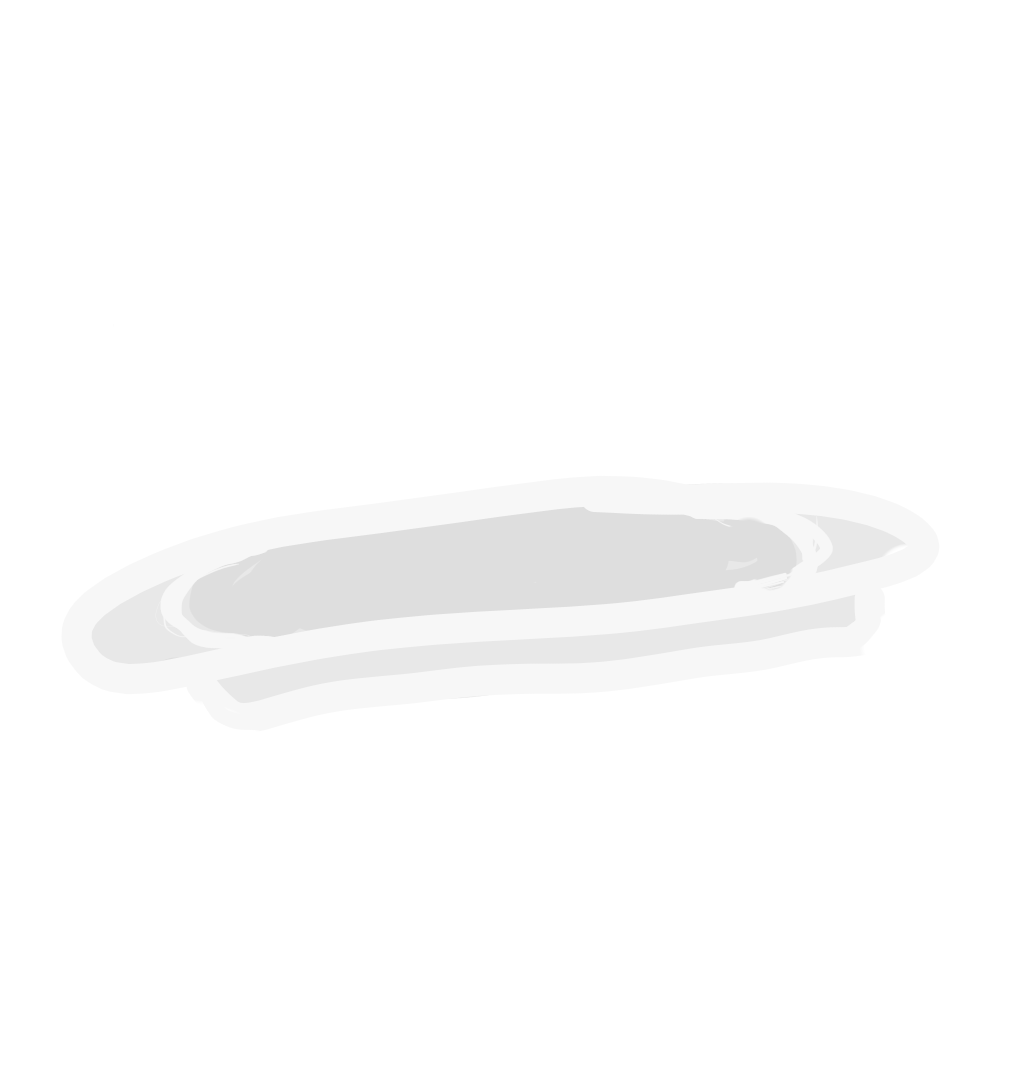
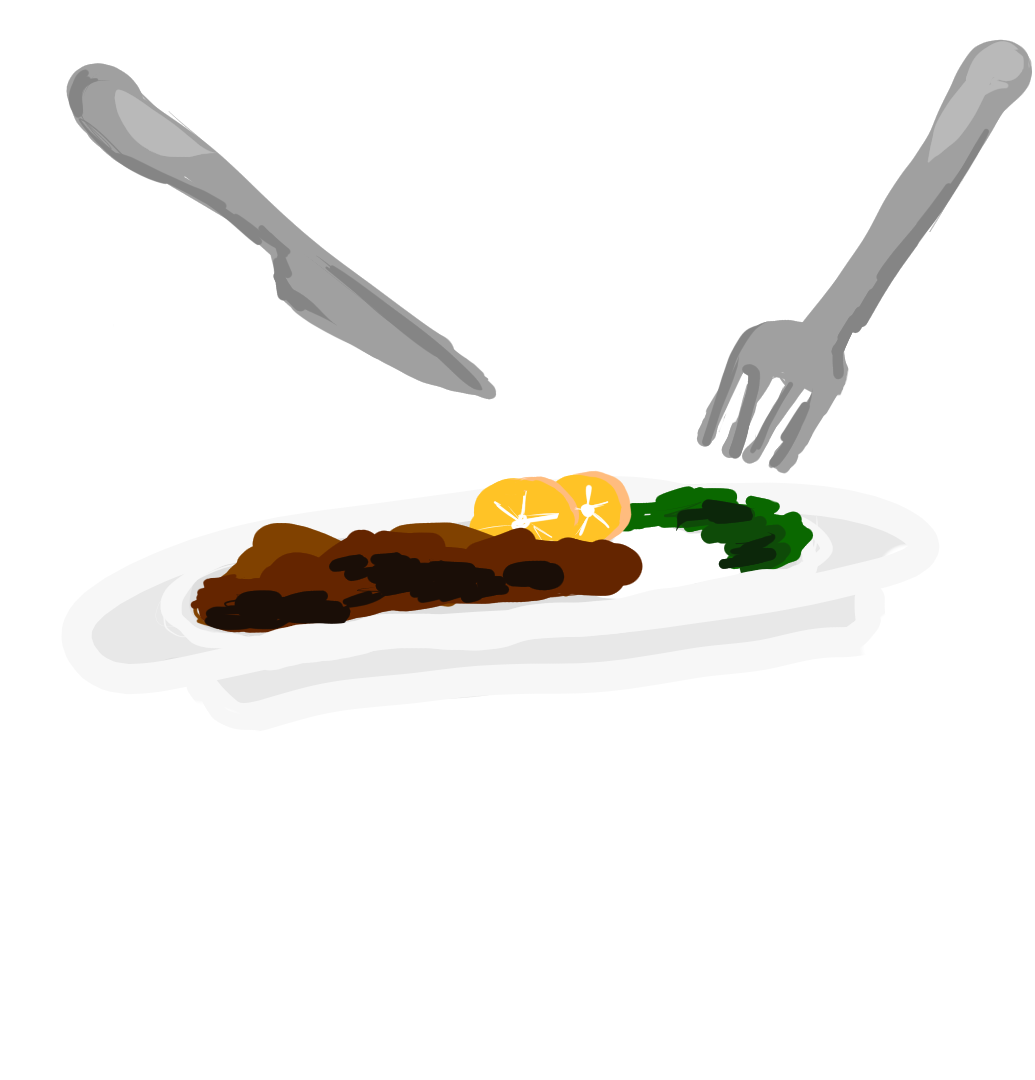
jesus5

Changed region(s): [[0.1855, 0.0306, 1.0, 0.6111], [0.0618, 0.0611, 0.4947, 0.3667]]

diff --git a/Exercicio 5/public/index.html b/Exercicio 5/public/index.html
@@ -15,7 +15,7 @@
         <nav class="header__nav">
             <div class="header__logo">
 
-                <h4>Temperinho do seu Felipe</h4>
+                <h4>[&dot; Temperinho do seu Felipe</h4>
 
                 <div class="header__logo-overlay"></div>
             </div>
@@ -29,12 +29,6 @@
                     <a href="#receitas">Receitas</a>
                 </li>
                 <li>
-                    <a href="#Loja">Loja</a>
-                </li>
-                <li>
-                    <a href="#sobre">Sobre</a>
-                </li>
-                <li>
                     <img src="/images/search.png" alt="search" />
                 </li>
             </ul>
@@ -42,10 +36,52 @@
 
         </nav>
     </header>
+
     
     <section class="hero">
         <div class="hero-image">
-            <img src=""
+            <img src="/images/pratinho.png" alt="prato principal"
+            />
+            <div class="hero-image__overlay"></div>
+        </div>
+        
+        <div class="hero-content">
+            <div class="hero-content-info">
+                <h1> Receitas Caseiras de Verdade!</h1>
+                <p>Sinta o gosto de Memórias</p>
+            </div>
+
+        </div>
+    </section>
+    <section class="Receitas" id="menu">
+        <h2 class="Receitas__title">Receitas</h2>
+        <div class="receitas__filters sushi__hide-scrollbar">
+            <button class="receitas__filter-btn active">Todas</button>
+            <button class="receitas__filter-btn">
+                <img src="/images/comida 1.png" alt="salgado">Salgado
+            </button>
+            <button class="receitas__filter-btn">
+                <img src="/images/comidas - Copy (5).png" alt="Pratos">Pratos
+            </button>
+            <button class="receitas__filter-btn">
+                <img src="/images/comidas - Copy (12).png" alt="Docinhos">Docinhos
+            </button>
+        </div>
+        <div class="receitas__catalogo">
+            <article class="receitas__card">
+                <img class="receitas__card-imagem" src="/images/comidas - Copy (2).png" />
+                <h4 class="receitas__card-title"> Pastelinho Frito </h4>
+            </article>
+
+            <article class="receitas__card">
+                <img class="receitas__card-imagem" src="/images/comidas - Copy (3).png" />
+                <h4 class="receitas__card-title"> Churrasquinho </h4>
+            </article>
+
+            <article class="receitas__card">
+                <img class="receitas__card-imagem" src="/images/comidas - Copy (11).png" />
+                <h4 class="receitas__card-title"> Brigadeiro </h4>
+            </article>
         </div>
     </section>
 

diff --git a/Exercicio 5/css/sections/receitas.css b/Exercicio 5/css/sections/receitas.css
@@ -1,0 +1,110 @@
+.Receitas {
+    padding: 64px;
+    display: flex;
+    flex-direction: column;
+
+    background-color: rgb(143, 63, 32);
+    background-position: center;
+    background-size: contain;
+}
+
+.Receitas__title{
+     font-size: 56px;
+     font-family: var( --playfair-display);
+     font-weight: 600;
+     line-height: 78px;
+     color: #fff;
+     text-align: center;
+    
+}
+
+.receitas__filters{
+    margin-top: 48px;
+    max-width: 100%;
+    overflow-x: auto;
+
+    display: flex;
+    justify-content: center;
+    gap: 24px;
+}
+
+.receitas__filter-btn{
+    padding: 10px 28px;
+    display: flex;
+    flex-direction: row;
+    align-items: center;
+    gap: 10px;
+
+    background: rgb(102, 43, 20);
+    border: 1px solid  rgb(102, 43, 20);
+    border-radius: 24px;
+
+    font-size: 20px;
+    font-weight: 300;
+    line-height:25px;
+    font-family: var(--plus-jakarta-sans);
+    color: #fff;
+}
+
+.receitas__filter-btn img{
+    width: 36px;
+    height: 36px;
+    object-fit: contain;
+}
+.receitas__filter-btn.active{
+    background: #fff;
+    color: var(--primary-color);
+}
+.receitas__filter-btn:hover{
+    background: #fff;
+    color: var(--primary-color);
+
+}
+.receitas__catalogo {
+  margin-top: 64px;
+
+  display: flex;
+  justify-content: center;
+  align-items: flex-end;
+  flex-wrap: wrap;
+  gap: 56px;
+}
+
+.receitas__card{
+    display: flex;
+    align-items: center;
+    flex-direction: column;
+    height: fit-content;
+
+    padding: 30px;
+    width: 240px;
+    height: fit-content;
+
+    border-radius: 36px;
+    background: rgb(177, 85, 49);
+    border: 1px solid rgb(177, 85, 0.2);
+}
+
+.receitas__card-title {
+    margin-top: 30px;
+  
+    font-weight: 600;
+    font-size: 24px;
+    line-height: 20px;
+    font-family: var(--playfair-display);
+    color: #fff;
+    text-align: center;
+}
+
+.receitas__card-imagem{
+    width: 110px;
+    height: 84px;
+    object-fit: contain;
+
+}
+.receitas__card:hover{
+    background: rgb(124, 54, 27);
+
+    border: 1px solid rgb(124, 54, 27);
+}
+

diff --git a/Exercicio 5/css/sections/hero.css b/Exercicio 5/css/sections/hero.css
@@ -1,0 +1,56 @@
+.hero{
+    display: flex;
+    min-height: calc(100vh - 74px);
+    overflow: hidden;
+}
+
+.hero-image{
+    display: flex;
+    flex: 1;
+    flex-direction: column;
+    
+
+    position: relative;
+    z-index: 5;
+}
+
+.hero-image img{
+    width: 110%;
+    height: 200%;
+    margin-top: 5rem;
+    object-fit: contain;
+}
+
+.hero-image__overlay{
+    position: absolute;
+    inset: 0;
+    width: 102%;
+    background-color: var(--primary-color);
+    z-index: -1;
+}
+
+.hero-content{
+    display: flex;
+    flex: 1;
+}
+
+.hero-content-info{
+    display: flex;
+    flex: 1;
+    padding: 4rem;
+    justify-content: center;
+    flex-direction: column;
+
+}
+
+.hero-content-info h1{
+    font-size: 80px;
+    font-weight: 620px;
+    font-family: var(--playfair-display);
+}
+
+.hero-content-info p{
+    margin: 10px 0 0 20px;
+    font-family: var(--plus-jakarta-sans);
+    font-size: 18px;
+}

diff --git a/Exercicio 5/css/style.css b/Exercicio 5/css/style.css
@@ -1,14 +1,14 @@
 @import url("https://fonts.googleapis.com/css2?family=Playfair+Display:wght@400;500;600;700;800;900&display=swap");
 @import url("https://fonts.googleapis.com/css2?family=Plus+Jakarta+Sans:wght@200;300;400;500;600;700;800&display=swap");
 
-/* other css file imports */
+/* importando os css das sessoes*/
 @import url("sections/header.css");
-/* @import url("sections/hero.css");
+@import url("sections/hero.css");
 @import url("sections/about.css");
-@import url("sections/popular.css");
+@import url("sections/receitas.css");
 @import url("sections/trending.css");
 @import url("sections/subscribe.css");
-@import url("sections/footer.css"); */
+@import url("sections/footer.css");
 
 /* CSS variables for reusablity across all files (including above imported) */
 :root {

diff --git a/Exercicio 5/css/sections/header.css b/Exercicio 5/css/sections/header.css
@@ -16,27 +16,26 @@
     inset: 0;
     width: 100%;
 
-    background-color: var(--primary-color);
+    background-color: rgb(143, 63, 32);
     z-index: -1;
 }
 
 .header__logo h4{
-padding-left: 30px;
+padding-left: 20px;
 
 font-weight: 700;
 font-size: 24px;
 text-transform: uppercase;
 font-family: var(--playfair-display);
 color: #fff;
-opacity: 0.8;
 }
 
-.header__menu, .header__menu-mobile {
+.header__menu{
     padding: 20px;
-    flex: 0.8;
+    flex: 0.96;
     display: flex;
     align-items: center;
-    justify-content: flex-end;
+    justify-content: space-evenly;
     gap: 64px;
     /*pq q tem que ser gap?????*/
   
@@ -56,6 +55,6 @@ opacity: 0.8;
   .header__menu li img {
     width: 24px;
     height: 24px;
-    object-fit: contain;
+  
   }
   
